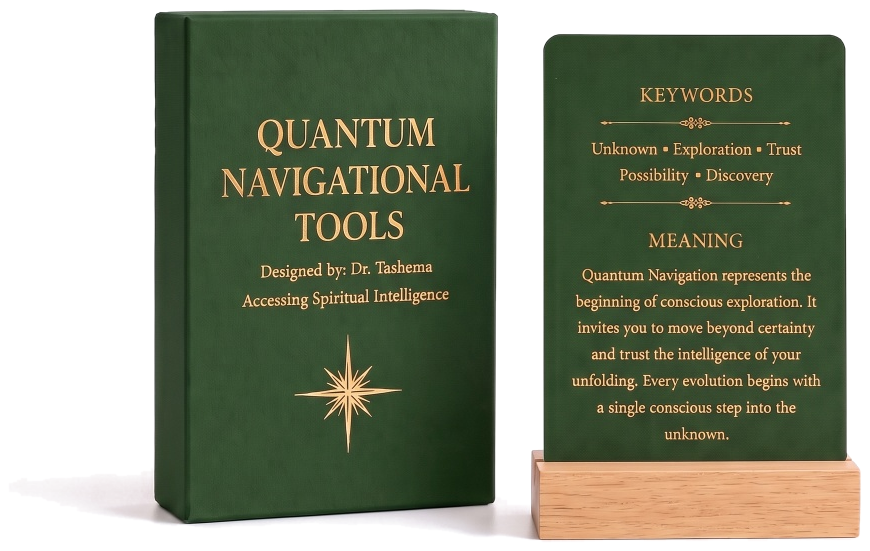
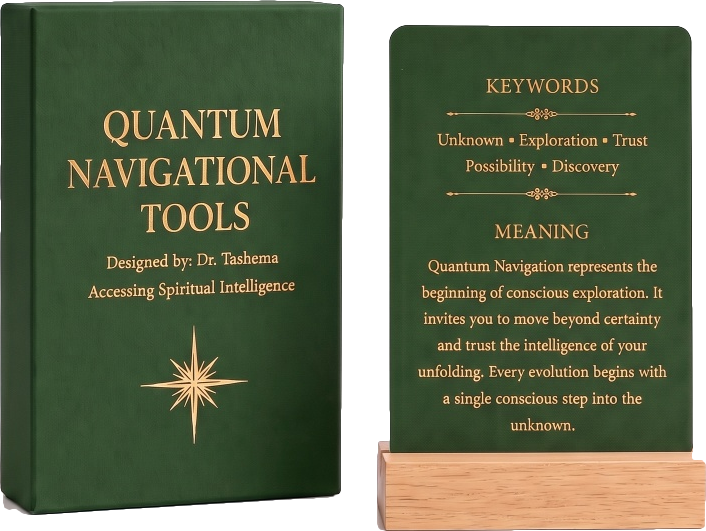
Remove the grey halo under the product shot
The cutout derived alpha from residual luminance with a ramp ceiling of 34,
but the photo's own cast shadow sits at residual 5-79 while the objects sit
above 90. So the ramp clipped the shadow to full opacity and faded it over
roughly 30px, leaving a soft grey wash under the box and the wooden stand
(the blur visible along the bottom edge).

Take alpha from the object mask instead, so it stays binary across the object
and the CSS drop-shadow supplies the ground shadow. Haze band (alpha
0.02-0.47) drops from 6,006px to 60px. Cross-checked the mask against an
independent colour-based mask: IoU 0.907, 8px disagreement.

Cropping to the object's own bounding box also removes the empty shadow
margin, so the shot tightens from 870x551 to 706x531 and the product fills
its column better. Re-measured at 8 viewports (390-1680px): no collision,
no horizontal overflow, 0 page errors.

diff --git a/src/pages.ts b/src/pages.ts
@@ -63,7 +63,7 @@ ${head({
         <img
           class="product-shot"
           src="/static/assets/product-hero.png"
-          width="870" height="551"
+          width="706" height="531"
           alt=""
           decoding="async"/>
       </picture>

diff --git a/README.md b/README.md
@@ -14,9 +14,10 @@ The landing and reading experience was recreated from the Genspark Design handof
 ## Features (completed)
 
 ### Hero — "the product shot"
-- Full-viewport flex layout: copy on the left (max-width 480px), the **product shot** on the right — the printed box next to the standing guide card on its wooden stand (`product-hero.webp`, 870×551).
+- Full-viewport flex layout: copy on the left (max-width 480px), the **product shot** on the right — the printed box next to the standing guide card on its wooden stand (`product-hero.webp`, 706×531).
 - The shot is sized `clamp(340px, 44vw, 620px)` so on wide screens it reads as a peer to the 480px copy column rather than a small inset; on phones it drops to `min(84vw, 380px)`. Measured across 8 viewports from 390px to 1680px: zero horizontal overflow at every width.
-- Background removed via a fitted quadratic backdrop model (the source is a graded near-white field, not flat white) — see `product-hero.png` for the PNG fallback carried by the `<picture>` element.
+- Background removed by modelling the backdrop (a fitted quadratic surface — the source is a graded near-white field, not flat white) and taking alpha from the **object mask** rather than from residual luminance. The distinction matters: the photo's own cast shadow sits at residual 5–79 while the objects sit above 90, so a luminance ramp renders that shadow at full opacity and fades it over ~30px, leaving a grey halo under the box and stand. Masking keeps alpha binary across the object and lets the CSS `drop-shadow` supply the ground shadow. Haze band (alpha 0.02–0.47) went from 6,006px to 60px. Mask cross-checked against an independent colour-based mask: IoU 0.907, 8px disagreement.
+- The crop is the object's own bounding box, so the shot is no longer padded with empty shadow margin — the product now fills its column. See `product-hero.png` for the PNG fallback carried by the `<picture>` element.
 - Gold-hairline eyebrow ("✦ Quantum Navigational Tools"), the headline **"Quantum Developmental Tools"**, a gold "FOUNDER DR. TASHEMA" byline, subtitle, and the pill CTA "Get a Free Card Reading ↓".
 - Orchestrated rise-in entrance (0.1s → 1.4s) and a bobbing "SCROLL TO RECEIVE" hint.
 - Fixed ivory watercolor atmosphere (`hero-ivory.jpg`) with a soft cream wash overlay.
